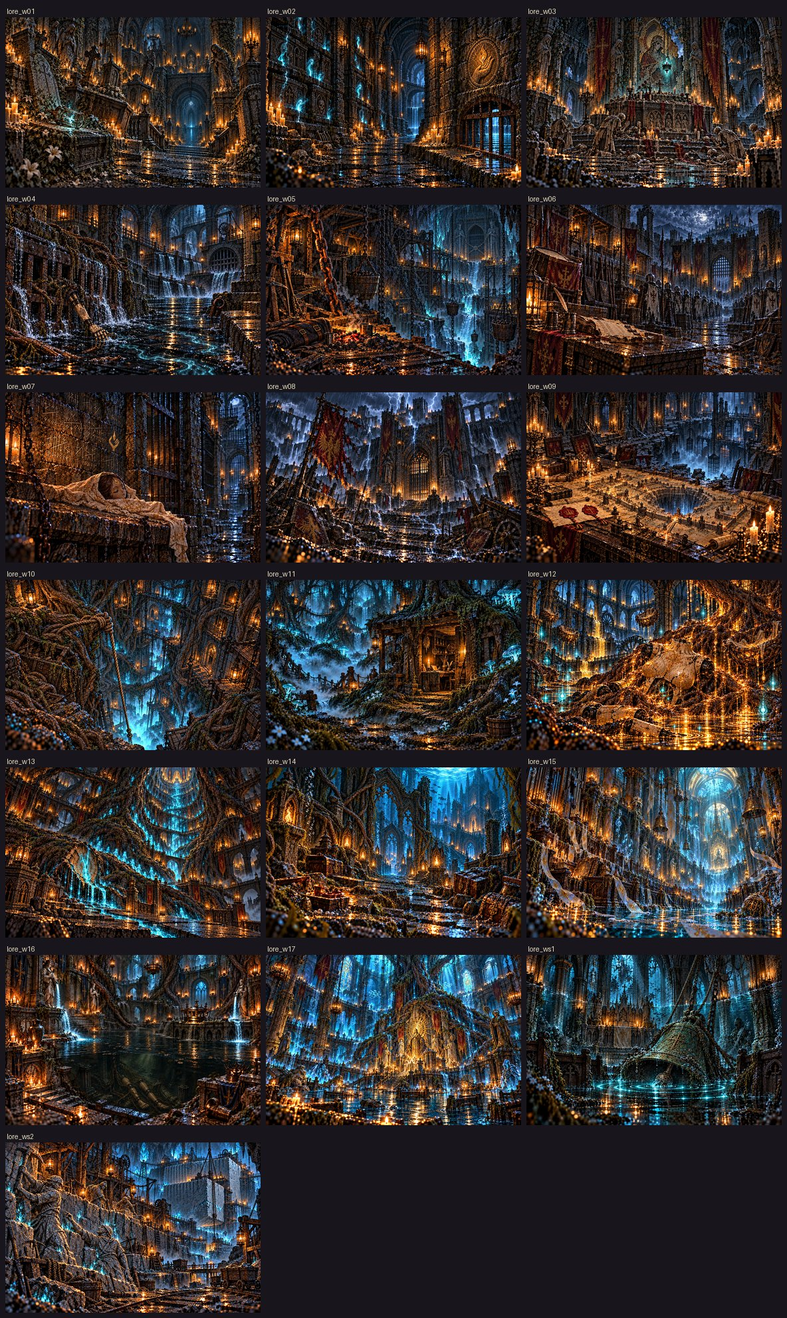
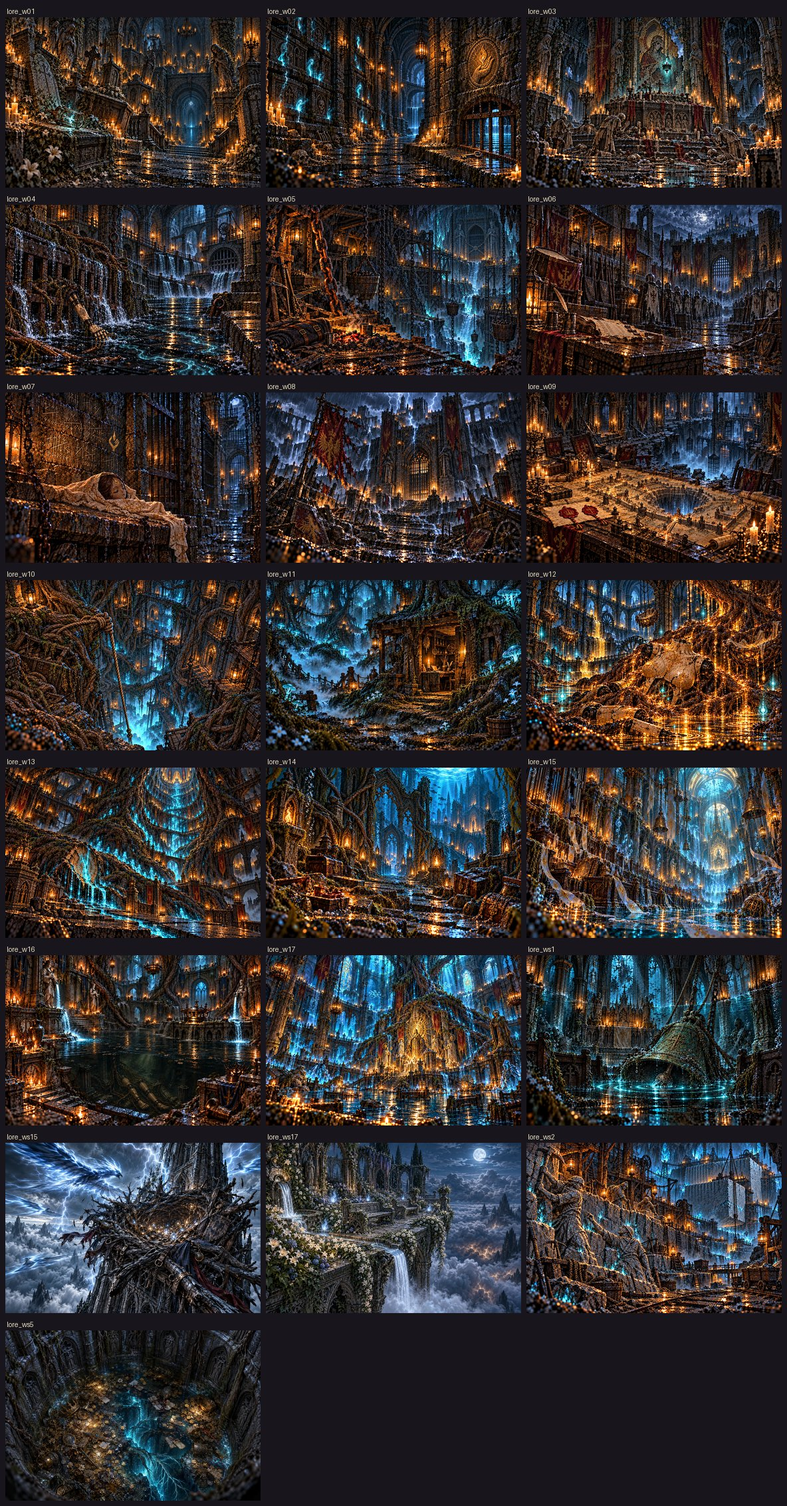
踏破迷宮の由来絵を3件追加

diff --git a/sw.js b/sw.js
@@ -108,6 +108,9 @@ const ASSETS = [
   "./art/story/dungeons/lore_w17.webp",
   "./art/story/dungeons/lore_ws1.webp",
   "./art/story/dungeons/lore_ws2.webp",
+  "./art/story/dungeons/lore_ws5.webp",
+  "./art/story/dungeons/lore_ws15.webp",
+  "./art/story/dungeons/lore_ws17.webp",
   // <</STORY_ART>>
   "./src/ui/journal.js",
   "./src/joblore.js",

diff --git a/src/storyimages.js b/src/storyimages.js
@@ -81,4 +81,7 @@ export const LORE_IMAGES = {
   w17: "art/story/dungeons/lore_w17.webp",
   ws1: "art/story/dungeons/lore_ws1.webp",
   ws2: "art/story/dungeons/lore_ws2.webp",
+  ws5: "art/story/dungeons/lore_ws5.webp",
+  ws15: "art/story/dungeons/lore_ws15.webp",
+  ws17: "art/story/dungeons/lore_ws17.webp",
 };

diff --git a/art/story-review/review/status.md b/art/story-review/review/status.md
@@ -146,7 +146,7 @@
 | 由来 | `ws2` | 石眠りの石切り場 | 出荷済み | [見る](dungeons.md#lore_ws2) |
 | 由来 | `ws3` | 霧の迷い森 | 未着手 (情景・手がかりの絵で代用) | [見る](dungeons.md#lore_ws3) |
 | 由来 | `ws4` | 銀業の隠れ里 | 未着手 (情景・手がかりの絵で代用) | [見る](dungeons.md#lore_ws4) |
-| 由来 | `ws5` | 王都の古井戸 | 未着手 (情景・手がかりの絵で代用) | [見る](dungeons.md#lore_ws5) |
+| 由来 | `ws5` | 王都の古井戸 | 出荷済み | [見る](dungeons.md#lore_ws5) |
 | 由来 | `ws6` | 見捨てられた狼煙台 | 未着手 (情景・手がかりの絵で代用) | [見る](dungeons.md#lore_ws6) |
 | 由来 | `ws7` | 獄吏の詰所 | 未着手 (情景・手がかりの絵で代用) | [見る](dungeons.md#lore_ws7) |
 | 由来 | `ws8` | 沈んだ書庫 | 未着手 (情景・手がかりの絵で代用) | [見る](dungeons.md#lore_ws8) |
@@ -156,6 +156,6 @@
 | 由来 | `ws12` | 氷河の裂け目 | 未着手 (情景・手がかりの絵で代用) | [見る](dungeons.md#lore_ws12) |
 | 由来 | `ws13` | 疫病塚の底 | 未着手 (情景・手がかりの絵で代用) | [見る](dungeons.md#lore_ws13) |
 | 由来 | `ws14` | 沈んだ渡し場 | 未着手 (情景・手がかりの絵で代用) | [見る](dungeons.md#lore_ws14) |
-| 由来 | `ws15` | 雷鳥の巣 | 未着手 (情景・手がかりの絵で代用) | [見る](dungeons.md#lore_ws15) |
+| 由来 | `ws15` | 雷鳥の巣 | 出荷済み | [見る](dungeons.md#lore_ws15) |
 | 由来 | `ws16` | 錆びた避雷針の林 | 未着手 (情景・手がかりの絵で代用) | [見る](dungeons.md#lore_ws16) |
-| 由来 | `ws17` | 雲上の庭 | 未着手 (情景・手がかりの絵で代用) | [見る](dungeons.md#lore_ws17) |
+| 由来 | `ws17` | 雲上の庭 | 出荷済み | [見る](dungeons.md#lore_ws17) |

diff --git a/art/story-review/review/dungeons.md b/art/story-review/review/dungeons.md
@@ -601,9 +601,9 @@ _(絵はまだ無い)_
 
 <a name="lore_ws5"></a>
 
-## lore_ws5「王都の古井戸」 ── 未着手
+## lore_ws5「王都の古井戸」 ── 出荷済み
 
-_(絵はまだ無い)_
+<img src="../../../art/story/dungeons/lore_ws5.webp" width="576" alt="lore_ws5">
 
 **ストーリー一覧の本文**
 
@@ -761,9 +761,9 @@ _(絵はまだ無い)_
 
 <a name="lore_ws15"></a>
 
-## lore_ws15「雷鳥の巣」 ── 未着手
+## lore_ws15「雷鳥の巣」 ── 出荷済み
 
-_(絵はまだ無い)_
+<img src="../../../art/story/dungeons/lore_ws15.webp" width="576" alt="lore_ws15">
 
 **ストーリー一覧の本文**
 
@@ -793,9 +793,9 @@ _(絵はまだ無い)_
 
 <a name="lore_ws17"></a>
 
-## lore_ws17「雲上の庭」 ── 未着手
+## lore_ws17「雲上の庭」 ── 出荷済み
 
-_(絵はまだ無い)_
+<img src="../../../art/story/dungeons/lore_ws17.webp" width="576" alt="lore_ws17">
 
 **ストーリー一覧の本文**
 
